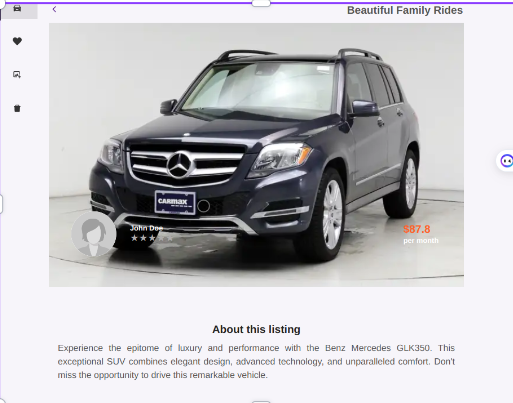
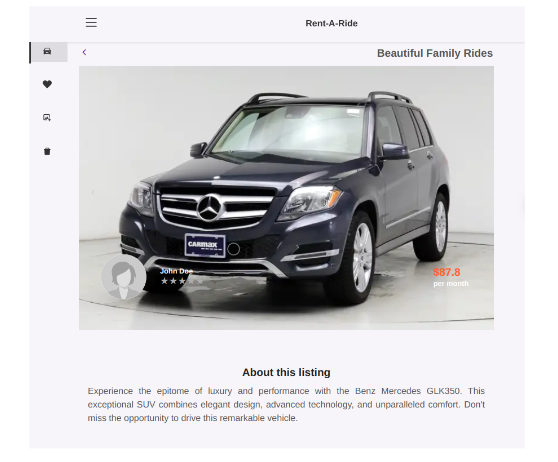
add mobile version

diff --git a/Improved.css b/Improved.css
@@ -1,30 +1,56 @@
-#typing-animation {
-  width: 50%;
-}
-
-#my-image {
-  width: 20%;
-  height: 50%;
-  border: 2px solid #f2f3ff65;
-  border-radius: 50%;
-  box-shadow: 0px 2px 4px rgba(0, 0, 0, 0.1);
-  transition: box-shadow 0.3s ease-in-out;
-}
-.works-section{
-    margin-top: 40px;
+@media (max-width: 600px) {
+  .works {
+    width: 93% !important;
     display: flex;
+    flex-direction: column;
+  }
+  
+  p#typing-animation {
+    width: 90%;
+    text-align: justify;
+  }
+
+  #about {
+    display: flex;
+    flex-direction: column-reverse;
+  }
+
+  #About-Myself p {
+    width: 100% !important;
+    /* text-align: justify; */
+  }
+ 
+}
+ 
+ #typing-animation {
+    width: 50%;
+  }
+
+  #my-image {
+    width: 20%;
+    height: 50%;
+    border: 2px solid #f2f3ff65;
+    border-radius: 50%;
+    box-shadow: 0px 2px 4px rgba(0, 0, 0, 0.1);
+    transition: box-shadow 0.3s ease-in-out;
+  }
+
+  .works-section {
+    margin-top: 40px;
+    /* display: flex; */
     justify-content: center;
     align-items: center;
-}
-.works {
-    width: 90%; 
-    display: grid;
+  }
+
+  .works {
+    width: 100%;
+    display: flex;
     grid-template-columns: repeat(3, 1fr);
     gap: 1rem;
-    
-}
 
-#work-item {
+  }
+
+  #work-item {
     width: 90%;
     padding: 2%;
     display: flex;
@@ -35,12 +61,12 @@
     box-shadow: 0px 2px 4px rgba(0, 0, 0, 0.1);
     transition: box-shadow 0.3s ease-in-out;
   }
-  
+
   #work-item:hover {
     box-shadow: 0px 4px 8px rgba(62, 60, 184, 0.9);
     border-color: #0e385afd;
   }
-  
+
   .app-image-container {
     width: 100%;
     height: 40vh;
@@ -48,39 +74,39 @@
     justify-content: center;
     margin-bottom: 1rem;
   }
-  
+
   .project-title {
     width: 100%;
-     margin: auto;
-     color: #091e42;
+    margin: auto;
+    color: #091e42;
   }
-  
+
   .app-image {
     width: 95%;
     height: 38vh;
     border-radius: 5px;
     transition: 0.2s ease-in-out;
-    transform: translateZ(0); 
-    box-sizing: border-box; 
+    transform: translateZ(0);
+    box-sizing: border-box;
     border: 4px solid #9196a5dc;
   }
-  
+
   .app-image:hover {
     width: 100%;
     height: 40vh
   }
-  
+
   .app-details {
     padding: 1rem;
   }
-  
-  
+
+
   .techs {
     display: flex;
     flex-wrap: wrap;
     margin-top: 0.5rem;
   }
-  
+
   .techs span {
     margin-right: 0.5rem;
     margin-bottom: 0.5rem;
@@ -91,19 +117,20 @@
     border: 1px solid #6070ff65;
     font-size: 0.9rem;
   }
-  
+
   .app-description {
     font-size: 0.9rem;
     line-height: 1.5;
     margin-bottom: 1rem;
     text-align: justify;
   }
-  
+
   .project-buttons {
     display: flex;
     justify-content: space-between;
     align-items: center;
   }
+
   .project-link {
     display: inline-block;
     background-color: #6070ff;
@@ -113,34 +140,39 @@
     text-decoration: none;
     transition: background-color 0.3s ease-in-out;
   }
-  
+
   .project-link:hover {
     background-color: #0056b3;
   }
-  
+
   .skills {
     border: 1px solid #6070ff65;
     justify-content: center;
   }
+
   .skills-title {
     margin-bottom: 0.3rem;
     text-align: center;
     color: #091e42;
   }
+
   .skill-items {
     display: flex;
     flex-wrap: wrap;
   }
+
   .skill {
     align-items: center;
     border: 1px solid #6070ff65;
     padding: 0.5rem;
   }
+
   .skill h3 {
     margin: 0;
     margin-left: 0.5rem;
     color: #091e42;
   }
+
   .skill-span {
     width: fit-content;
     border-radius: 5px;
@@ -149,26 +181,23 @@
     align-items: center;
     margin: 0.2rem;
   }
+
   .skill-span img {
     width: 1.5rem;
     height: 1.5rem;
     margin: 0.2rem;
   }
 
- .skill-items i {
-  padding: 0.2rem;
-  font-size: x-large
-}
-.skill-text {
- padding: 0.3rem;
-}
-#About-Myself p {
-  width: 80%;
-  text-align: justify;
-}
+  .skill-items i {
+    padding: 0.2rem;
+    font-size: x-large
+  }
 
+  .skill-text {
+    padding: 0.3rem;
+  }
 
-
-
-
-
+  #About-Myself p {
+    width: 80%;
+    text-align: justify;
+  }

diff --git a/index.html b/index.html
@@ -218,23 +218,26 @@
       </div>
       <div id="work-item">
         <div class="app-image-container">
-          <img class="app-image" src="images/LeaderBoard.png" alt="Todo App Screenshot" />
+          <img class="app-image" src="images/rentAride.png" alt="Todo App Screenshot" />
         </div>
         <div class="app-details">
-          <h1 class="project-title">LeaderBoard</h1>
+          <h1 class="project-title">Rent-A-ride</h1>
           <div class="techs">
             <span>JavaScript</span>
-            <span>HTML5</span>
-            <span>CSS3</span>
+            <span>Jsx</span>
+            <span>React.js</span>
+            <span>Redux</span>
+            <span>Ruby on Rails</span>
             <span>Apis</span>
+
           </div>
           <p class="app-description">
-            This is the App that effectively showcases both the players' names and their respective scores. Its straightforward functionality allows players to seamlessly input their names along with corresponding scores, promoting easy and efficient data entry.
+            The Rent-A-Ride rental app that helps you Discover a wide range of vehicles for rent, from compact cars to luxury sedans, available at your convenience. With seamless booking, transparent pricing, and excellent customer service, Rent-A-Ride makes renting a car a breeze for your travel needs.
           </p>
 
           <div class="project-buttons">
-          <a href="https://www.loom.com/share/ca42e71ae534469f8e5f0312a489c856" class="project-link">Demo</a>
-          <a href="https://github.com/EddyShimwa/Land-locator" class="project-link">Source Code</a>
+          <a href="https://github.com/EddyShimwa/Rent-A-Ride" class="project-link">Demo</a>
+          <a href="https://github.com/EddyShimwa/Rent-A-Ride" class="project-link">Source Code</a>
           </div>
   
         </div>

diff --git a/styles.css b/styles.css
@@ -26,6 +26,9 @@ body {
   font-size: 24px;
 }
 
+#my-image {
+  display: none;
+}
 a {
   text-decoration: none;
 }
@@ -81,8 +84,9 @@ a {
   top: 20px;
 }
 
-#works {
+.works {
   margin: 0 24px;
+  
 }
 
 .container {
